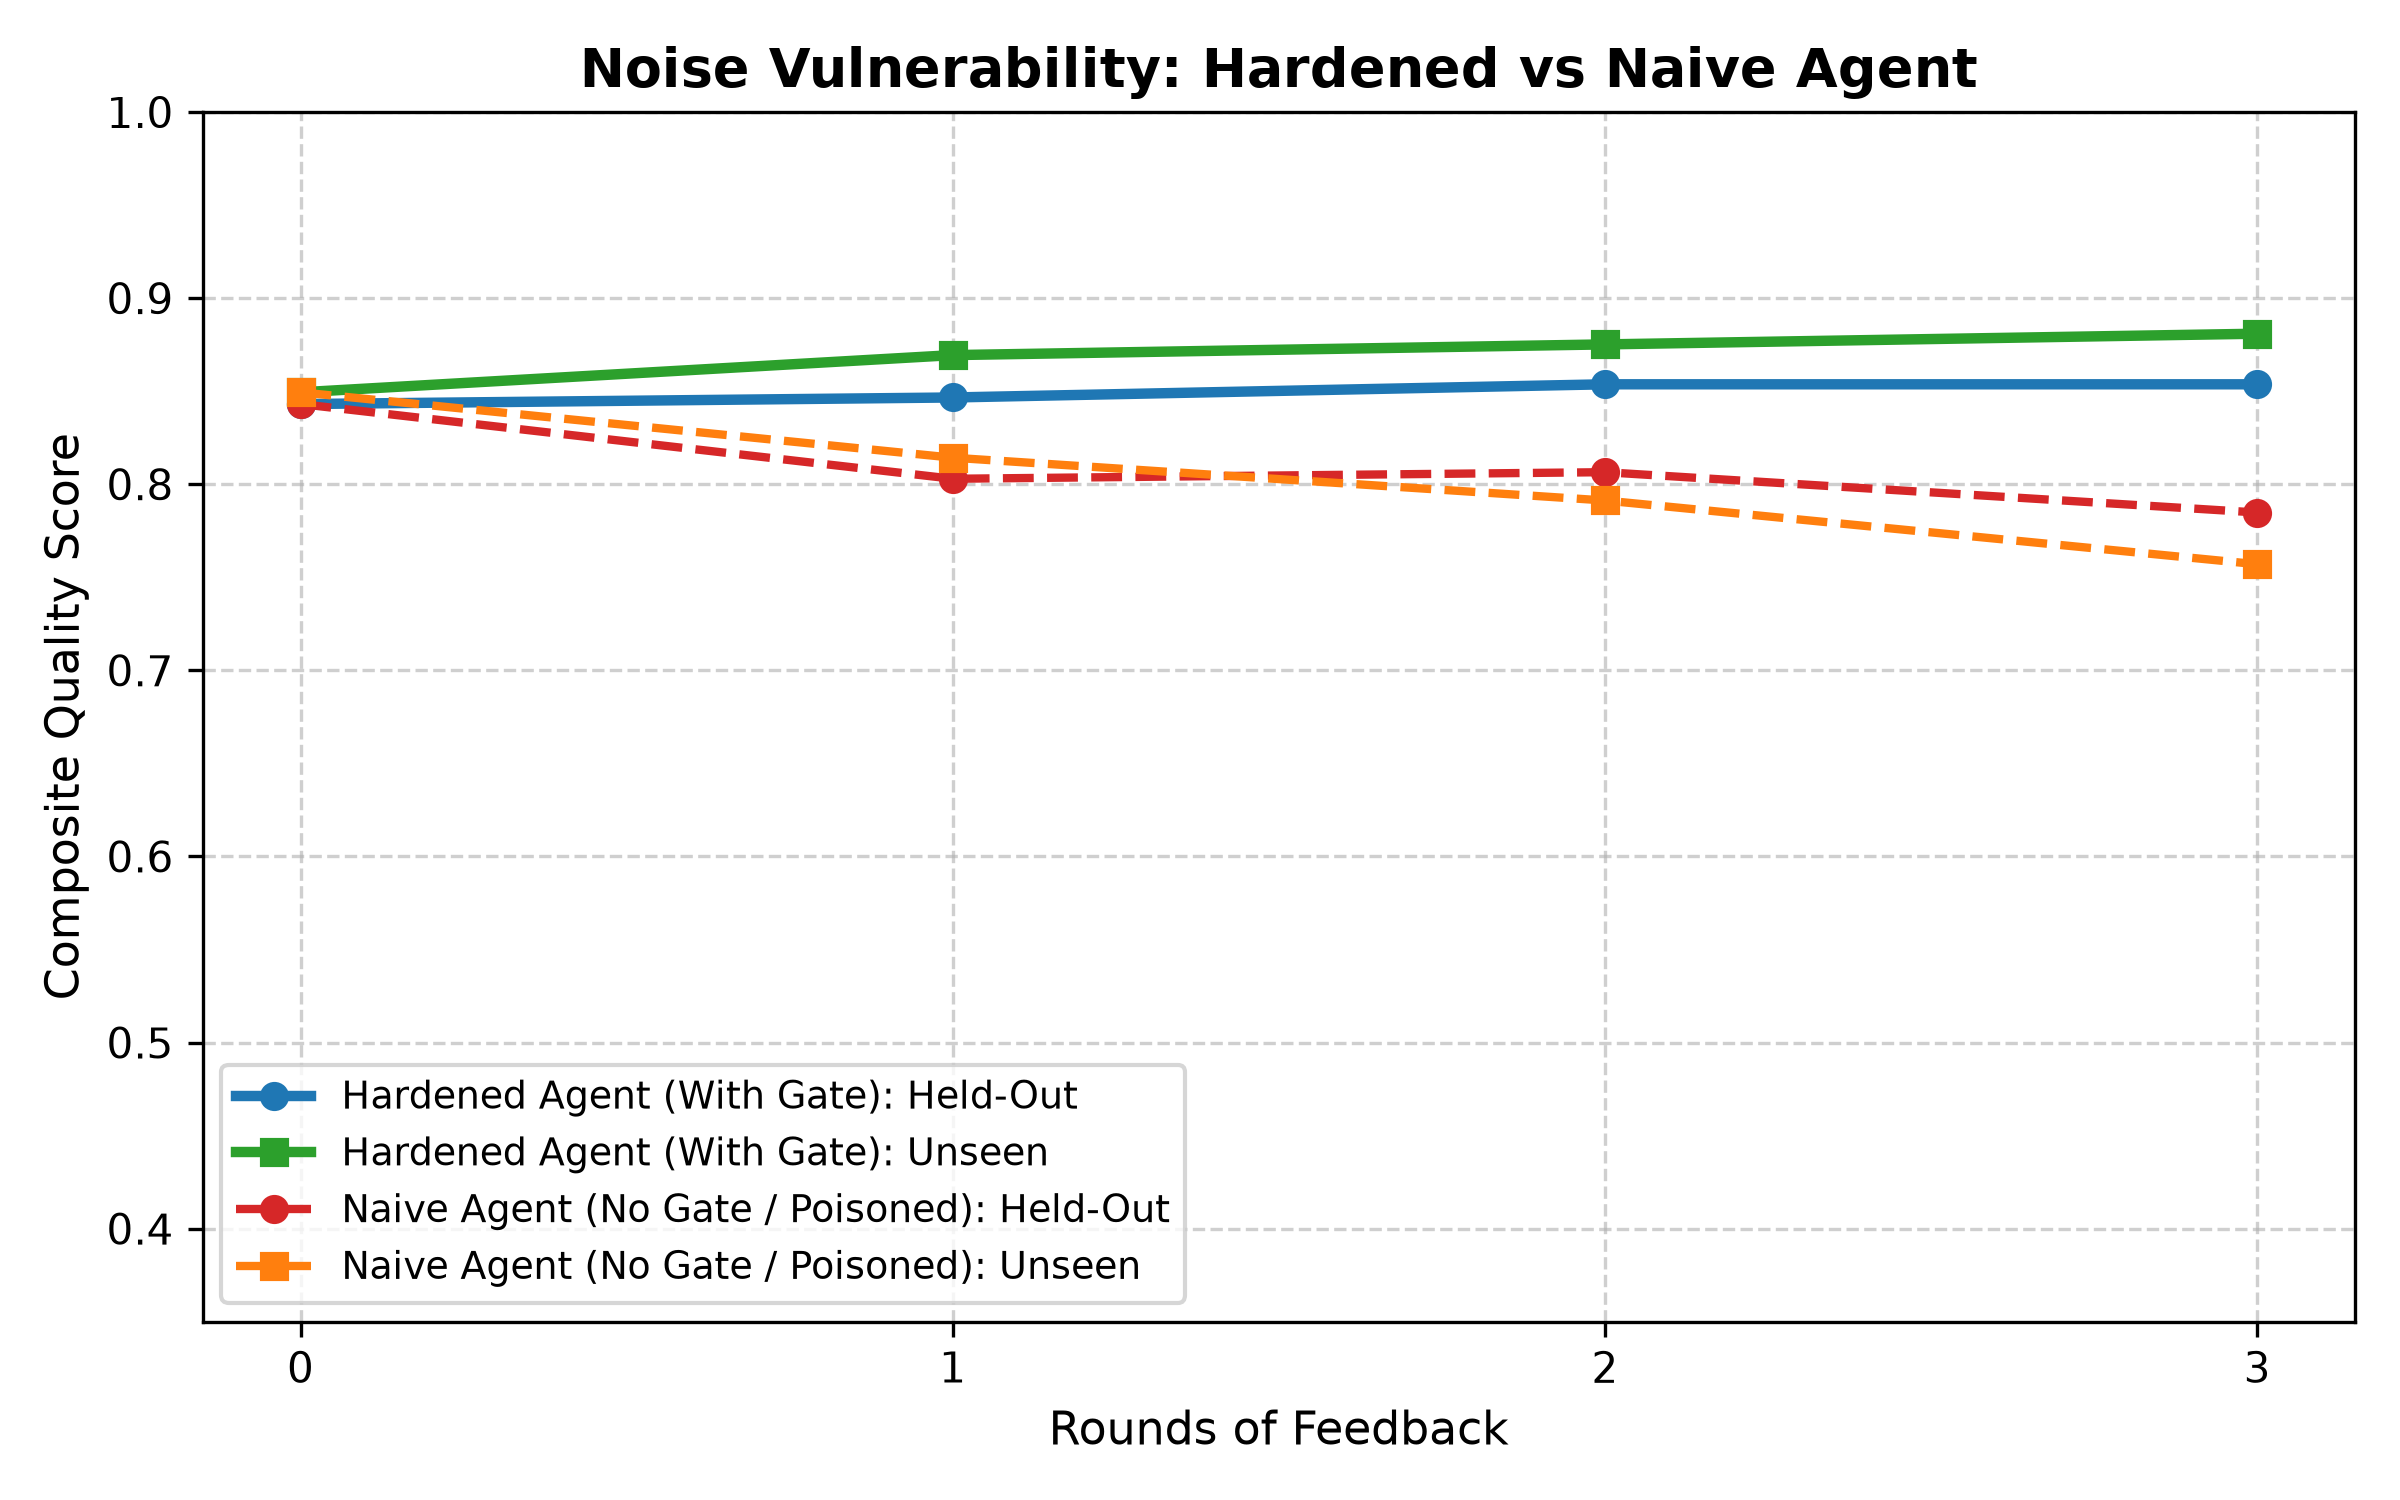
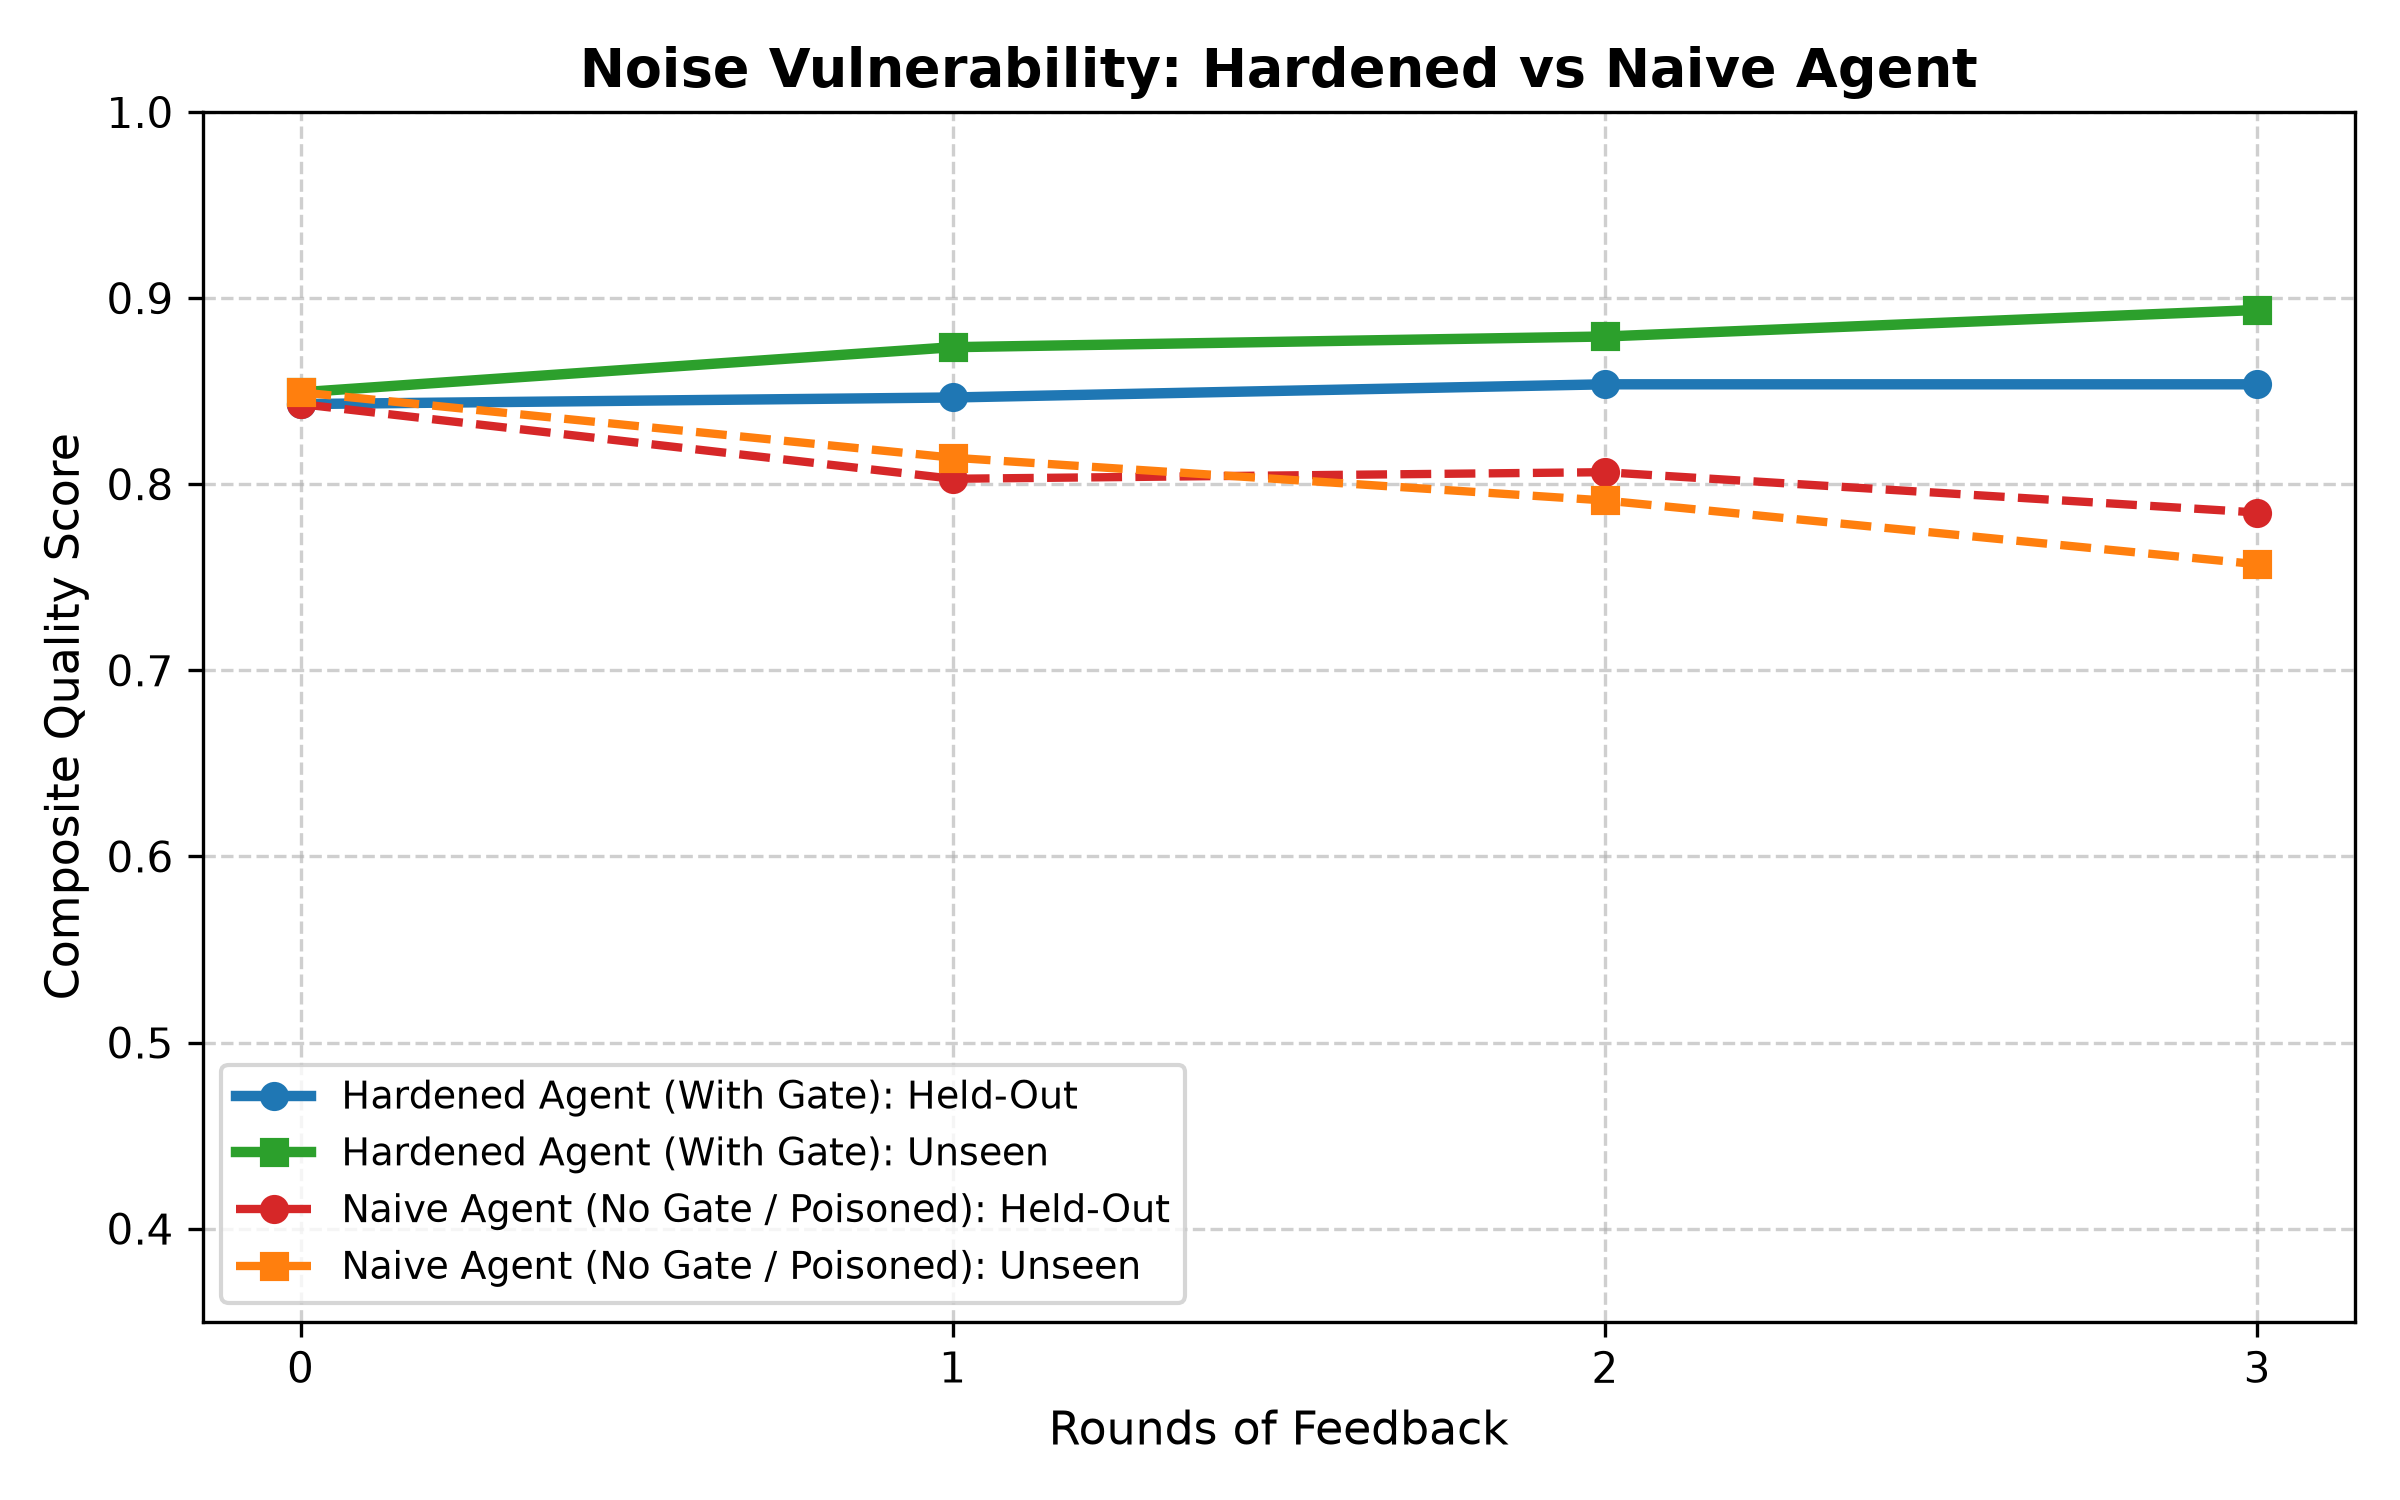
Fix Rule D contradiction check in playbook and reconcile metrics with 0.20 baseline

Changed region(s): [[0.1875, 0.184, 0.9688, 0.276]]

diff --git a/src/memory/playbook.py b/src/memory/playbook.py
@@ -86,15 +86,16 @@ class DiligencePlaybook:
 
         # Rule D: Contradiction checks for negative assertions (e.g. customer concentration)
         clean_lower = clean_text.lower()
-        if "largest customer" in clean_lower or "customer accounted for" in clean_lower:
+        if ("largest customer" in clean_lower or "customer accounted for" in clean_lower) and "no single customer" not in clean_lower:
             if "no single customer accounted for more than 10%" in cited_text_block or "no single customer accounted for 10%" in cited_text_block:
                 for num in numbers:
-                    try:
-                        val = float(num.replace("%", "").replace("$", ""))
-                        if val > 10.0:
-                            return False, f"Rejection: Correction claims customer concentration of {val}%, contradicting 10-K disclosure that no customer exceeds 10%."
-                    except ValueError:
-                        pass
+                    if num.endswith("%"):
+                        try:
+                            val = float(num.replace("%", "").strip())
+                            if val > 10.0:
+                                return False, f"Rejection: Correction claims customer concentration of {val}%, contradicting 10-K disclosure that no customer exceeds 10%."
+                        except ValueError:
+                            pass
 
         # Rule E: Contradiction check for margin or growth directions
         if "increased" in clean_lower and "decreased" in cited_text_block and not ("increased" in cited_text_block):

diff --git a/README.md b/README.md
@@ -32,11 +32,11 @@ All experiments were evaluated across **5 random seeds** (`42`, `123`, `456`, `7
 | Feedback Round | Hardened Held-Out (MSFT/AAPL) | Hardened Unseen (Nike NKE) | Naive Held-Out (No Gate) | Naive Unseen (No Gate) |
 | :---: | :---: | :---: | :---: | :---: |
 | **Round 0 (Baseline)** | 0.843 ± 0.000 | 0.849 ± 0.000 | 0.843 ± 0.000 | 0.849 ± 0.000 |
-| **Round 1** | 0.847 ± 0.007 | 0.869 ± 0.028 | 0.803 ± 0.044 | 0.814 ± 0.046 |
-| **Round 2** | 0.854 ± 0.009 | 0.875 ± 0.026 | 0.806 ± 0.047 | 0.791 ± 0.089 |
-| **Round 3** | **0.854 ± 0.009** | **0.881 ± 0.023** | **0.785 ± 0.053** | **0.757 ± 0.122** |
+| **Round 1** | 0.847 ± 0.007 | 0.874 ± 0.026 | 0.803 ± 0.044 | 0.814 ± 0.046 |
+| **Round 2** | 0.854 ± 0.009 | 0.879 ± 0.023 | 0.806 ± 0.047 | 0.791 ± 0.089 |
+| **Round 3** | **0.854 ± 0.009** | **0.894 ± 0.026** | **0.785 ± 0.053** | **0.757 ± 0.122** |
 
-- **Feedback Verification Performance**: **6.0** total feedback items rejected per run on average; **100.0% Noise Detection Recall** on injected corruptions (3.8 of 3.8 injected noisy corrections caught).
+- **Feedback Verification Performance**: **5.0** total feedback items rejected per run on average; **100.0% Noise Detection Recall** on injected corruptions (3.8 of 3.8 injected noisy corrections caught).
 - **Preliminary Scorer Calibration**: Benchmarked against a pilot dataset of expert human diligence ratings ($N=12$, Nike strictly excluded) yielding **$r = 0.9272$ Pearson correlation** and **MAE = 0.1126**.
 - **Model Call Expenditure**: **\$0.0000 USD** actual expenditure (offline deterministic execution mode); **\$1.1100 USD** simulated production equivalent (\$15.00 / 10,000 queries benchmark).
 - **Runtime**: **< 5 seconds** on a standard laptop.

diff --git a/WRITEUP.md b/WRITEUP.md
@@ -46,7 +46,7 @@ Gains on the training set were completely excluded. We measured generalization a
    - Improved from **0.843 ± 0.000** at baseline (Round 0) to **0.854 ± 0.009** by Round 3.
    - The agent learned to execute two-stage retrieval, capturing both the primary metric and secondary qualifying disclosures (e.g., pairing gross margin movements with accounting useful-life extensions).
 2. **Completely Unseen Company (Nike, NKE - Retail/Apparel)**:
-   - Improved from **0.849 ± 0.000** at baseline to **0.881 ± 0.023** by Round 3 (+3.2% gain!).
+   - Improved from **0.849 ± 0.000** at baseline to **0.894 ± 0.026** by Round 3 (+4.5% gain!).
    - **Strict Isolation Guarantee**: Nike was 100% excluded from training filings, training verifiers, and scorer calibration.
    - Because the learned query expansions (e.g. "depreciation", "useful life", "no single customer", "wholesale", "markdowns", "freight") represent general diligence concepts under US GAAP, strategies learned on MSFT and AAPL transferred directly to Nike's 10-K disclosures.
 3. **Preliminary Expert Scorer Calibration**:
